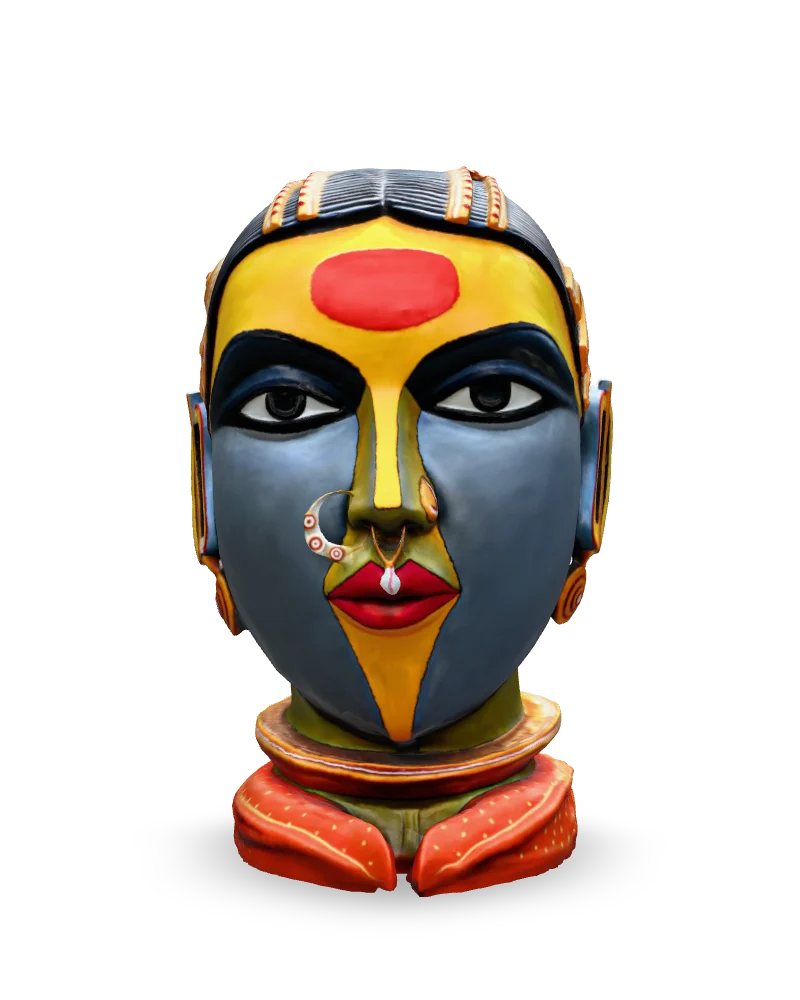
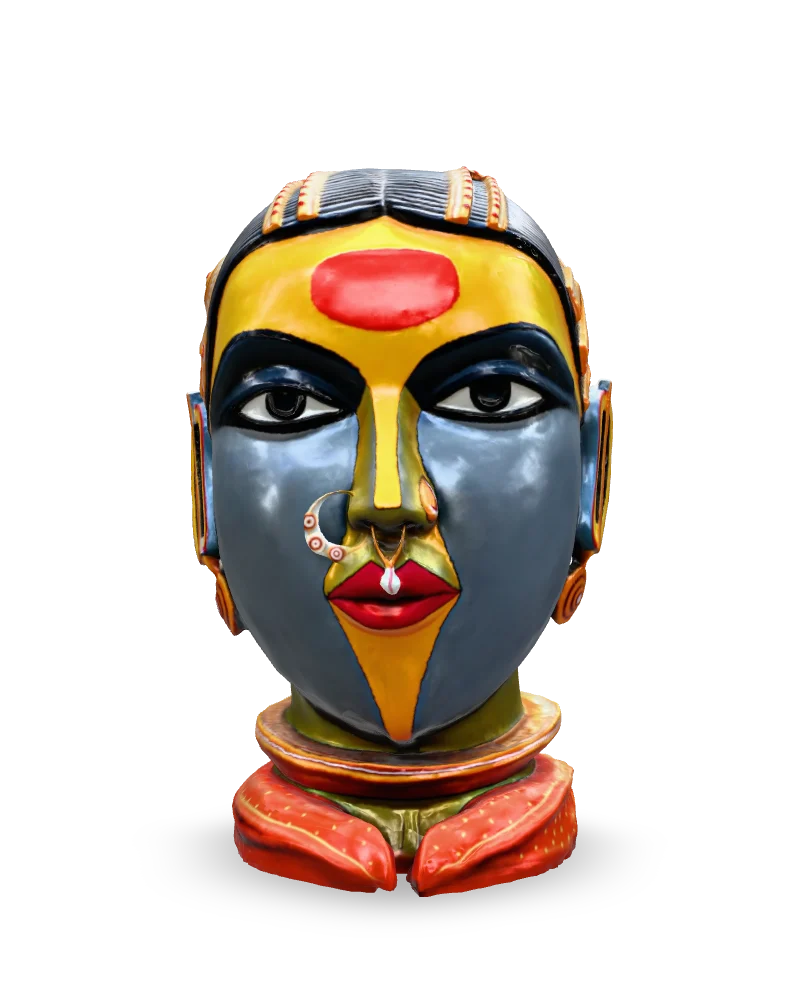
Female Head with Orange Collar: new look from the look lab, thumbnail re-rendered (?v=2)

diff --git a/lib/sculptures.ts b/lib/sculptures.ts
@@ -1132,9 +1132,9 @@ export const sculptures: Sculpture[] = [
     title: "Female Head with Orange Collar",
     description: "A head by Thota Vaikuntam in resinated fibreglass with automotive paint, 88 × 58 × 81 inches: well over two metres tall. Listed in its source as Untitled (Female Head, orange collar).",
     artistSlug: "thota-vaikuntam",
-    thumbnail: "/thumbnails/thota-female-head-with-orange-collar.webp",
+    thumbnail: "/thumbnails/thota-female-head-with-orange-collar.webp?v=2",
     modelUrl: "/sculptures/thota-female-head-with-orange-collar.glb",
-    look: { metalness: 0.18, roughness: 1.98, reflections: 0.6 },
+    look: { metalness: 0.5, roughness: 1.35, reflections: 0.8, light: 0.9, sideLights: 1.25 },
     material: "Resinated Fibreglass with Automotive Paint",
     year: "",
     dimensions: "88 × 58 × 81 inches",
